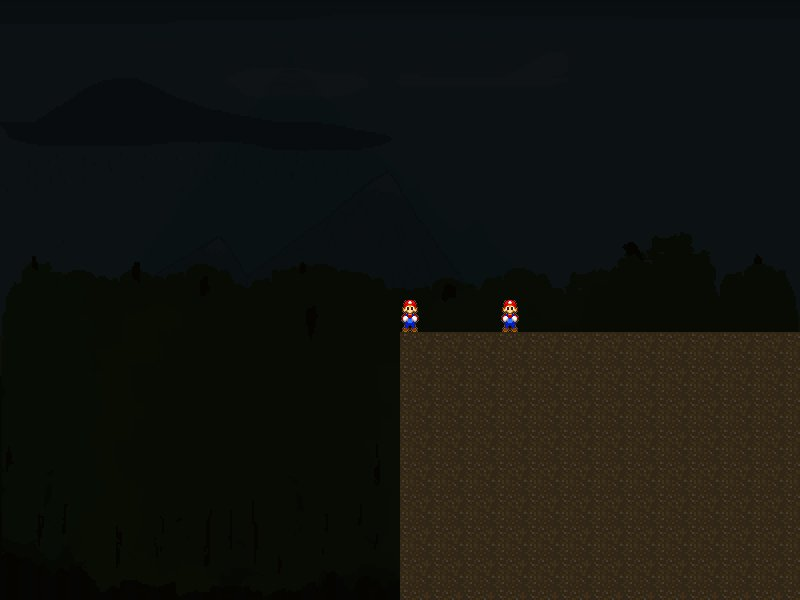
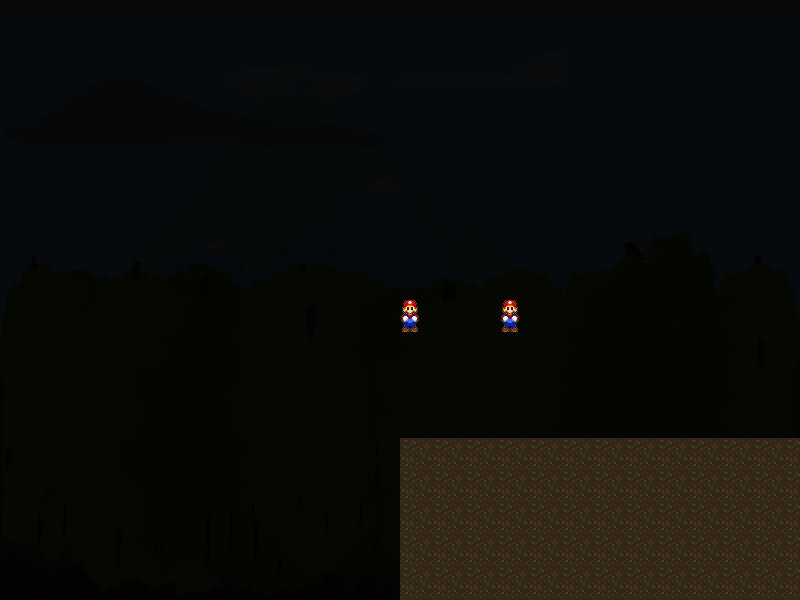
обновление графикки!

Changed region(s): [[0.5, 0.54, 1.0, 0.75]]

diff --git a/intarface.py b/intarface.py
@@ -1,47 +1,13 @@
 from buttons import *
 
 
-class Item:
-    def __init__(self, name, x, y):
-        self.name = name
-        self.item_rect = Rect(x, y, 32, 32)
-        self.item_chek = False
 
-    def update(self, screen, box_arr):
-        self.mose_pos = mouse.get_pos()
-        self.mouse_press = mouse.get_pressed()
-        if self.item_rect.x < self.mose_pos[0] < self.item_rect.x + self.item_rect.w and self.item_rect.y < \
-                self.mose_pos[1] < self.item_rect.y + self.item_rect.h:
-            if self.mouse_press[0] == 1:
-                time.delay(60)
-                if self.item_chek:
-                    self.item_chek = False
-                else:
-                    self.item_chek = True
-        if self.item_chek:
-            self.item_rect.x = self.mose_pos[0] - self.item_rect.w / 2
-            self.item_rect.y = self.mose_pos[1] - self.item_rect.h / 2
-            draw.rect(screen, (23, 204, 58), self.item_rect)
-        else:
-            draw.rect(screen, (23, 204, 58), self.item_rect)
-
-
-class Box_item:
-    def __init__(self, x, y, nuber):
-        self.rect = Rect(x, y, 40, 40)
-        self.number = nuber
-        self.box_chek = False
-
-    def update(self, items):
-        self.mouse_press = mouse.get_pressed()
-        for e in items:
-            if self.rect.x < e.item_rect.x + e.item_rect.w / 2 < self.rect.x + self.rect.w and \
-                    self.rect.y < e.item_rect.y + e.item_rect.h / 2 < self.rect.y + self.rect.h:
-                if self.mouse_press[0] == 1:
-                    time.delay(60)
-                    e.item_rect.x = self.rect.x + 4
-                    e.item_rect.y = self.rect.y + 4
-                    e.item_chek = False
+class Box:
+    def __init__(self, number, screen):
+        self.number = number
+        self.rect = Rect(0, 0, 40, 40)
+        self.image = image.load("textures/block/stone.jpg")
+        self.image.transform.sckale()
 
 
 def interface(screen, display_widht, display_height):
@@ -59,15 +25,8 @@ def interface(screen, display_widht, display_height):
     intarface_arr_bt = []
     image.save(screen, "1.jpg")
     image_bg = image.load("1.jpg")
-    sword = Item("Sword", 0, 0)
-    stone = Item("Stone", 100, 100)
-    box_rect = Rect(200, 100, 40, 40)
-    #
-    box_arr = []
-    box = Box_item(100, 200, 1)
-    box_arr.append(box)
-    #
-    items = [sword, stone]
+
+
 
     for i in range(1, 5):
         bt = Rect((intarface_bg.x + 5) * i, intarface_bg.y + 5, 50, 30)
@@ -85,16 +44,8 @@ def interface(screen, display_widht, display_height):
         for e in intarface_arr_bt:
             draw.rect(screen, (0, 0, 0), e)
 
-        # box
-        mose_pos = mouse.get_pos()
-        mouse_press = mouse.get_pressed()
-        for e in box_arr:
-            e.update(items)
 
-        draw.rect(screen, (5, 50, 50), box_rect)
-        # item
-        sword.update(screen, box_arr)
-        stone.update(screen, box_arr)
+
         display.update()
 
 

diff --git a/blocks.py b/blocks.py
@@ -28,21 +28,23 @@ class Platform(sprite.Sprite):
         self.fon_block = False
         self.poly_block = False
         if block == 1:
-            self.image = image.load("%s/textures/block/platform.jpg" % ICON_DIR)  # каменный блок
+            self.image = image.load("%s/textures/block/platform.png" % ICON_DIR)  # каменный блок
         elif block == 2:
-            self.image = image.load("%s/textures/block/dirt.jpg" % ICON_DIR)  # грязь
+            self.image = image.load("%s/textures/block/dirt.png" % ICON_DIR)  # грязь
         elif block == 3:
-            self.image = image.load("%s/textures/block/earst.jpg" % ICON_DIR)  # блок травы
+            self.image = image.load("%s/textures/block/earst.png" % ICON_DIR)  # блок травы
         elif block == 4:
-            self.image = image.load("%s/textures/block/stone.jpg" % ICON_DIR)  # камень
+            self.image = image.load("%s/textures/block/stone.png" % ICON_DIR)  # камень
         elif block == 5:
-            self.image = image.load("%s/textures/block/pesok.jpg" % ICON_DIR)  # песок
+            self.image = image.load("%s/textures/block/pesok.png" % ICON_DIR)  # песок
         elif block == 6:
             self.image = image.load("%s/textures/block/treeeee.png" % ICON_DIR)  # дерево
             self.fon_block = True
         elif block == 7:
-            self.image = image.load("%s/textures/block/land_grass_L.png" % ICON_DIR)  # диагональный блок травы
+            self.image = image.load("%s/textures/decor/stone 1.png" % ICON_DIR)  # диагональный блок травы
             self.poly_block = True
+            self.fon_block = True
+
 
         self.rect = Rect(x, y, PLATFORM_WIDTH, PLATFORM_HEIGHT)
 

diff --git a/main.py b/main.py
@@ -89,6 +89,10 @@ def draw_map(chank, entities, platforms):
                 pf = Platform(x, y, col)
                 entities.add(pf)
                 platforms.append(pf)
+            elif col == 8:
+                pf = Platform(x, y, col)
+                entities.add(pf)
+                platforms.append(pf)
             x += PLATFORM_WIDTH  # блоки платформы ставятся на ширине блоков
         y += PLATFORM_HEIGHT  # то же самое и с высотой
         x = 960 * chank.chank_num  # на каждой новой строчке начинаем с нуля
